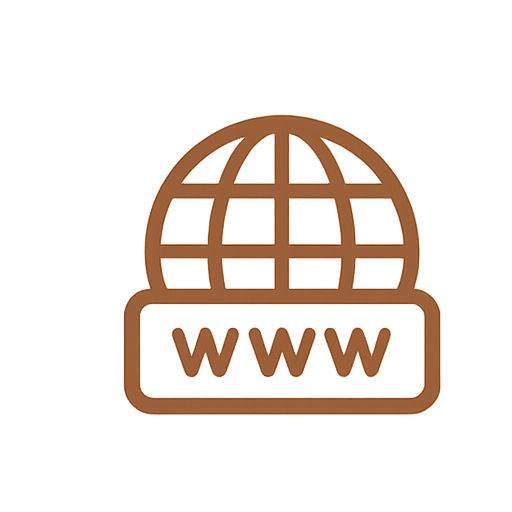
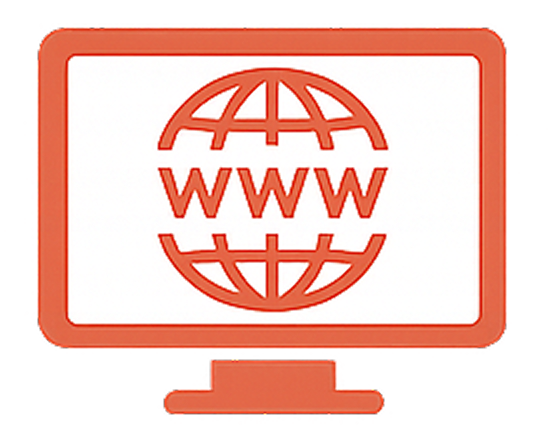
patch-chore お気に入りボタンのcss修正

diff --git a/frontend/src/components/common/FavoriteButton.tsx b/frontend/src/components/common/FavoriteButton.tsx
@@ -102,10 +102,12 @@ const FavoriteButton: React.FC<FavoriteButtonProps> = ({
     <button
       className={`favorite-button flex items-center ${className}`}
       style={{
-        background: 'transparent',
-        border: 'none',
-        padding: 0,
-        cursor: isLoading ? 'not-allowed' : 'pointer'
+        background: favorite ? '#cb6b52' : 'transparent',
+        border: favorite ? '1px solid #cb6b52' : '1px solid #e5e7eb',
+        padding: '0.5rem',
+        cursor: isLoading ? 'not-allowed' : 'pointer',
+        borderRadius: '0.375rem',
+        transition: 'all 0.2s ease-in-out'
       }}
       onClick={toggleFavorite}
       disabled={isLoading}
@@ -114,11 +116,20 @@ const FavoriteButton: React.FC<FavoriteButtonProps> = ({
     >
       <span
         className={`heart-icon ${favorite ? 'heart-active' : ''}`}
+        style={{
+          color: favorite ? '#ffffff' : '#cb6b52',
+          fontSize: '1.25rem'
+        }}
       >
         {favorite ? '❤' : '♡'}
       </span>
       {showText && (
-        <span className="ml-1 text-sm text-gray-600">
+        <span
+          className="ml-2 text-sm font-medium"
+          style={{
+            color: favorite ? '#ffffff' : '#666666'
+          }}
+        >
           {favorite ? 'お気に入り済み' : 'お気に入りに追加'}
         </span>
       )}

diff --git a/frontend/src/styles/PlayPlanDetail.css b/frontend/src/styles/PlayPlanDetail.css
@@ -82,7 +82,7 @@
   color: #cb6b52;
   text-align: center;
   font-weight: 500;
-  font-size: 20px;
+  font-size: 18px;
   margin: 20px 0;
 }
 
